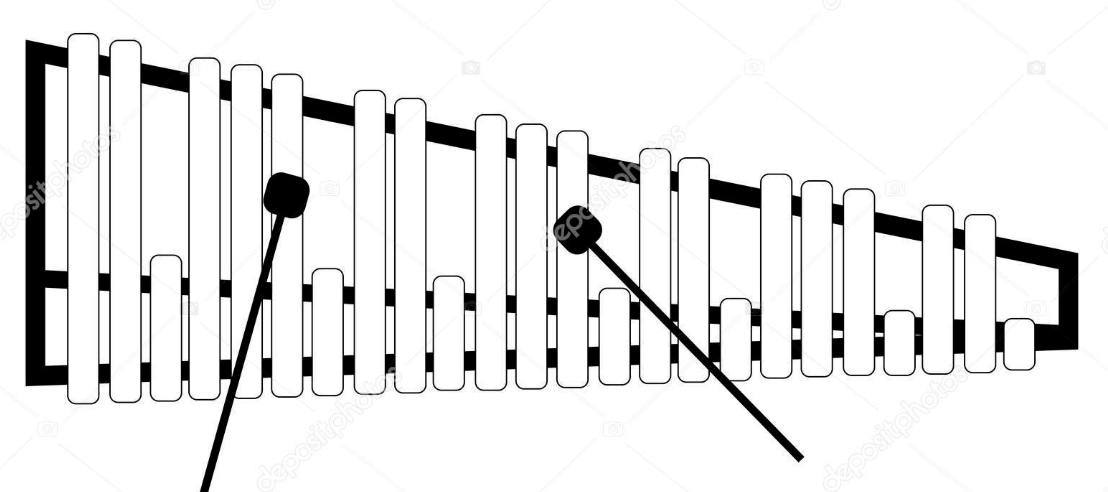
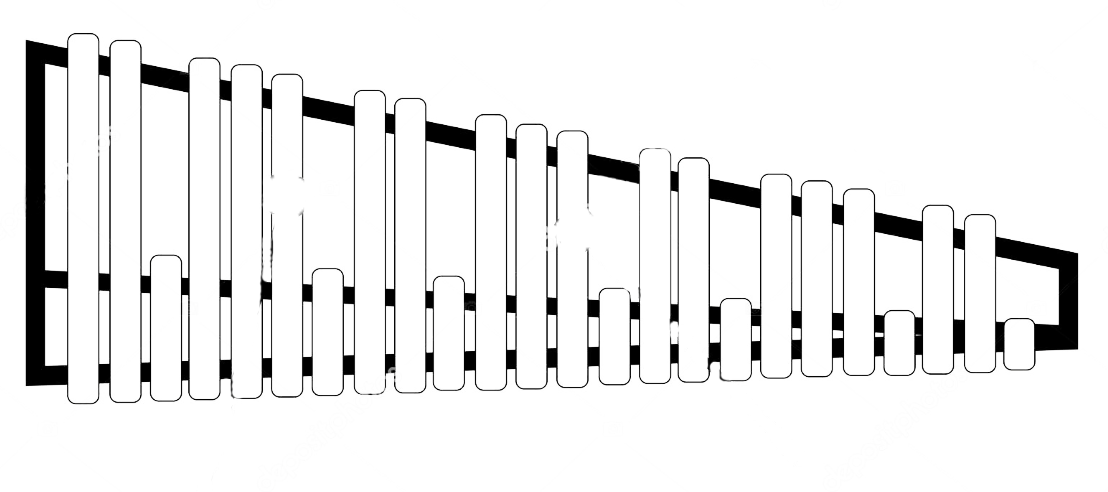
Removed useless images, retouched the background and tried to make the button more interesting

diff --git a/happy_birthday_nina/src/App.css b/happy_birthday_nina/src/App.css
@@ -16,7 +16,6 @@
 }
 
 .marimba-container {
-  background-color: #282c34;
   position: relative;
   font-size: calc(10px + 2vmin);
   color: white;
@@ -36,4 +35,11 @@
   }
 }
 
-
+.happy-button {
+  background: url("./images/btn.png");
+  font-size: 35px;
+  color: white;
+  border-radius: 12px;
+  padding: 14px 40px;
+  text-shadow: 2px 2px 2px black;
+}

diff --git a/happy_birthday_nina/src/App.js b/happy_birthday_nina/src/App.js
@@ -52,7 +52,9 @@ function App() {
         <Key key_name="d4" />
         <Key key_name="esharp4" />
         </div>
-      <button onClick={playHappyBirthday}>Play happy birthday!</button>
+      <button
+        className="happy-button"
+        onClick={playHappyBirthday}>Play happy birthday!</button>
     </div>
   );
 }
